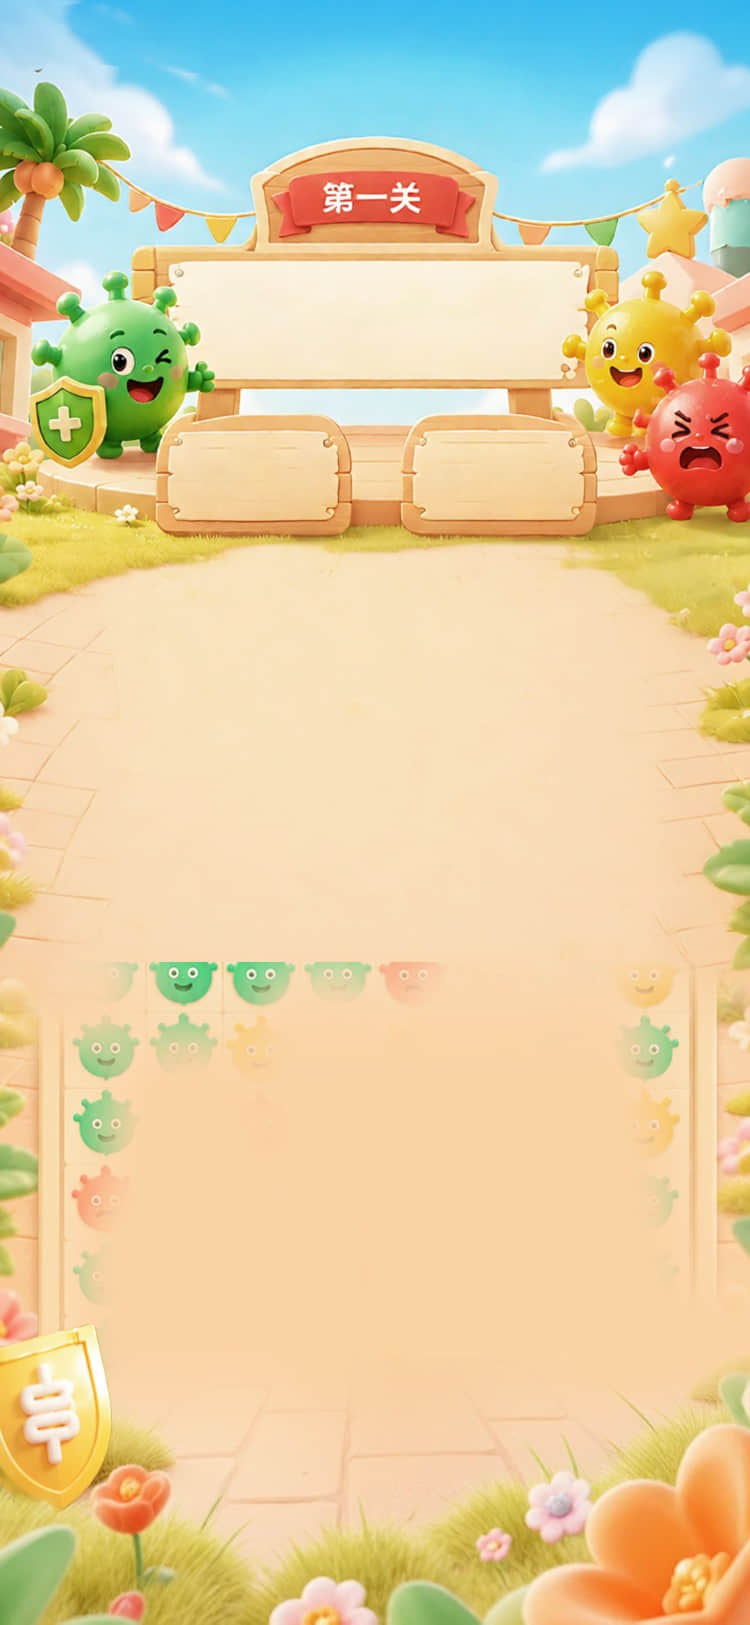
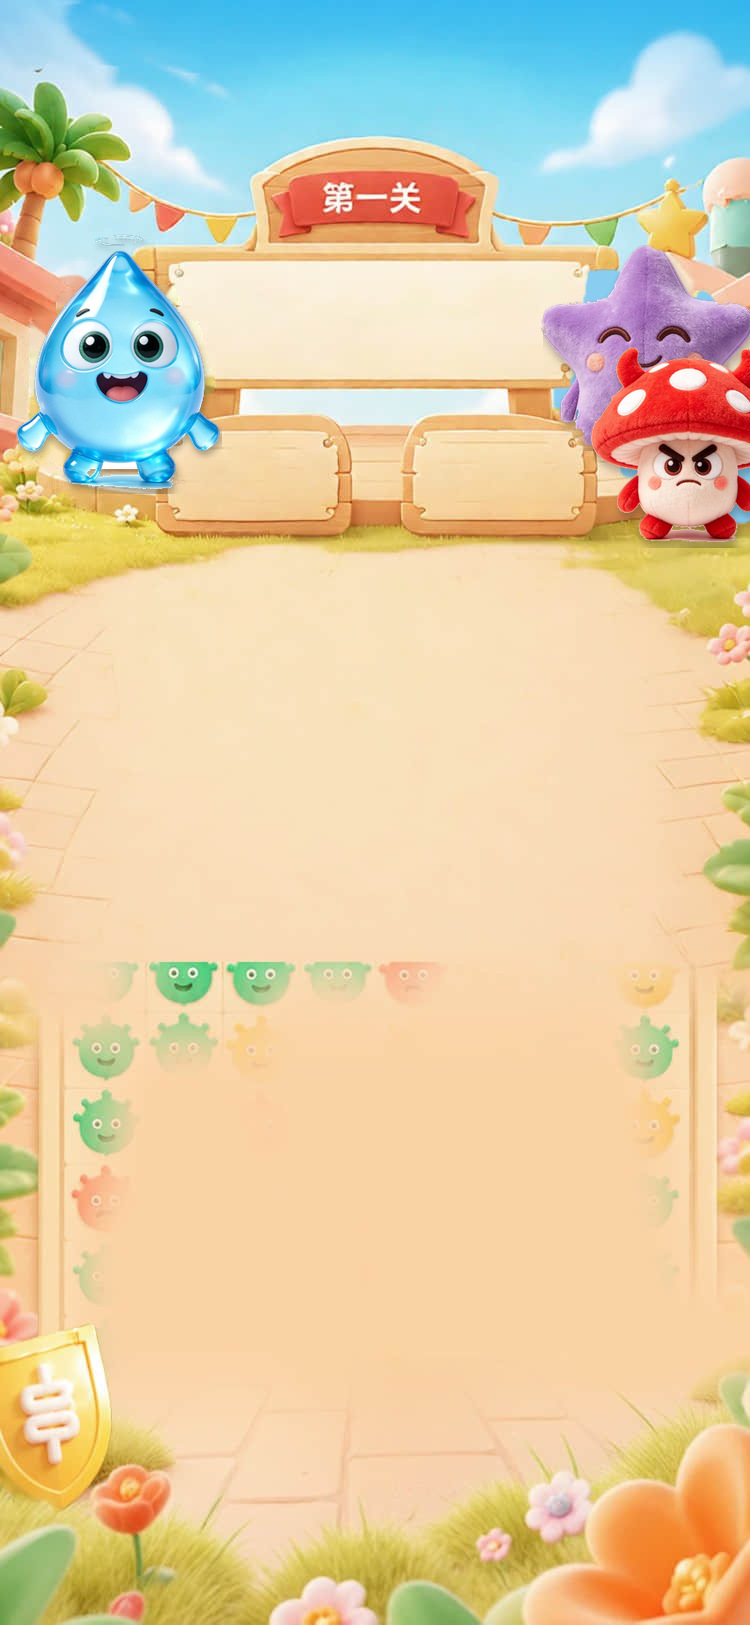
Replace the three characters beside the level sign with the new pieces.

Changed region(s): [[0.7053, 0.1538, 1.0, 0.3385], [0.0, 0.1538, 0.3067, 0.3077]]

diff --git a/index.html b/index.html
@@ -7,7 +7,7 @@
   <meta http-equiv="Expires" content="0" />
   <meta name="viewport" content="width=device-width, user-scalable=no, initial-scale=1, maximum-scale=1, viewport-fit=cover" />
   <title>大家消消乐 肠享好时光</title>
-  <link rel="stylesheet" href="css/game.css?v=11" />
+  <link rel="stylesheet" href="css/game.css?v=12" />
 </head>
 <body>
   <div class="phone" id="phone">
@@ -59,8 +59,8 @@
     <img class="logo" src="image/logo.png" alt="北大方正人寿江苏分公司" />
     <div id="result-title" class="result-title win"></div>
     <div class="score-card">
-      <div class="score-line"><img src="assets/static/image/bad.e7701dce.png?v=11" alt="" /><span>成功消除有害菌</span><b id="result-bad">0个</b></div>
-      <div class="score-line"><img src="assets/static/image/good2.0b5e797e.png?v=11" alt="" /><span>成功守护有益菌</span><b id="result-good">0个</b></div>
+      <div class="score-line"><img src="assets/static/image/bad.e7701dce.png?v=12" alt="" /><span>成功消除有害菌</span><b id="result-bad">0个</b></div>
+      <div class="score-line"><img src="assets/static/image/good2.0b5e797e.png?v=12" alt="" /><span>成功守护有益菌</span><b id="result-good">0个</b></div>
       <div class="score-line"><span>得分</span><b id="result-score">0</b></div>
       <div id="result-rank-block" class="rank-card">
         <img id="result-rank-img" class="badge" alt="" />
@@ -83,7 +83,7 @@
 
   <section id="howto" class="overlay howto" hidden>
     <div class="howto-card">
-      <img class="rules" src="assets/static/image/game_rules.b7cd129a.png?v=11" alt="游戏规则" />
+      <img class="rules" src="assets/static/image/game_rules.b7cd129a.png?v=12" alt="游戏规则" />
       <img class="finger" src="assets/static/image/finger.2957c077.png" alt="" />
     </div>
     <button type="button" data-action="howto-go"><img class="howto-go" src="assets/static/image/start.766e35a5.png" alt="开始" /></button>
@@ -122,7 +122,7 @@
 
   <div id="toast" class="toast" hidden></div>
   </div>
-  <script src="js/engine.js?v=11"></script>
-  <script src="js/app.js?v=11"></script>
+  <script src="js/engine.js?v=12"></script>
+  <script src="js/app.js?v=12"></script>
 </body>
 </html>

diff --git a/js/app.js b/js/app.js
@@ -3,11 +3,11 @@ const MEDIA = "assets/static/media/";
 const LOGO = "image/logo.png";
 
 const TILES = {
-  1: IMG + "bad.e7701dce.png?v=11",
-  2: IMG + "good1.bec550f3.png?v=11",
-  3: IMG + "good2.0b5e797e.png?v=11",
-  4: IMG + "grape.ec727821.png?v=11",
-  5: IMG + "carrot.85a5d31e.png?v=11",
+  1: IMG + "bad.e7701dce.png?v=12",
+  2: IMG + "good1.bec550f3.png?v=12",
+  3: IMG + "good2.0b5e797e.png?v=12",
+  4: IMG + "grape.ec727821.png?v=12",
+  5: IMG + "carrot.85a5d31e.png?v=12",
 };
 
 const ROUND_TITLE = [
@@ -224,7 +224,7 @@ function renderRank() {
 
 function renderModal() {
   const map = {
-    rules: { title: IMG + "tab_rules.2280077b.png", body: IMG + "rules.d30d95b1.png?v=11", frame: IMG + "bg_modal2.f6c41725.png" },
+    rules: { title: IMG + "tab_rules.2280077b.png", body: IMG + "rules.d30d95b1.png?v=12", frame: IMG + "bg_modal2.f6c41725.png" },
     prize: { title: IMG + "tab_prize.50b50917.png", body: IMG + "tab_prize.50b50917.png", frame: IMG + "bg_modal1.90a830b4.png" },
     protocol: { title: IMG + "title_rules.d6d6c7d2.png", body: IMG + "protocol.e3577188.png", frame: IMG + "bg_modal3.3d7bc8c7.png" },
   };

diff --git a/css/game.css b/css/game.css
@@ -33,8 +33,8 @@ button, img { user-select: none; }
 button { border: 0; padding: 0; background: transparent; cursor: pointer; }
 .screen, .overlay { position: absolute; inset: 0; }
 .screen { min-height: 100%; background-position: center top; background-size: cover; background-repeat: no-repeat; }
-#home { background-image: url("../assets/static/image/bg.ead9a73e.jpg?v=11"); }
-#game { background-image: url("../assets/static/image/bg.5f682dba.jpg"); overflow: auto; }
+#home { background-image: url("../assets/static/image/bg.ead9a73e.jpg?v=12"); }
+#game { background-image: url("../assets/static/image/bg.5f682dba.jpg?v=12"); overflow: auto; }
 #rank { background-image: url("../assets/static/image/bg.22ba2e11.jpg"); overflow: auto; }
 #poster { background-image: url("../assets/static/image/bg.9fb073bd.jpg"); overflow: auto; }
 #loading {

diff --git a/make_poster.py b/make_poster.py
@@ -5,7 +5,7 @@ import qrcode
 from PIL import Image, ImageDraw, ImageFont
 
 ROOT = os.path.dirname(os.path.abspath(__file__))
-PLAY_URL = os.environ.get("PLAY_URL", "https://hua691.github.io/gut-match3-play/?v=11")
+PLAY_URL = os.environ.get("PLAY_URL", "https://hua691.github.io/gut-match3-play/?v=12")
 OUT = os.path.join(ROOT, "海报.png")
 
 W, H = 1080, 2160
